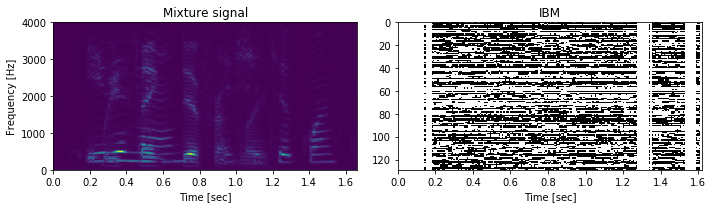
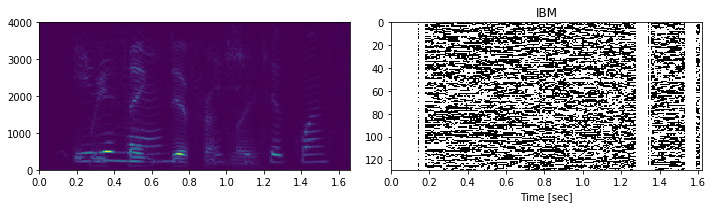
Add files via upload

diff --git a/Feedforward/train_net.py b/Feedforward/train_net.py
@@ -1,5 +1,5 @@
 '''
-Script to train the model
+Script to train 3 layer feed forward model
 '''
 
 #Sources:
@@ -7,34 +7,31 @@ Script to train the model
 
 import tensorflow as tf
 import numpy as np
+import time
+import matplotlib.pyplot as plt
+import librosa
 
 #%% Set console working directory
-    
-from os import chdir, getcwd
-wd=getcwd()
-chdir(wd)
-
-del wd
 
 #%%
 
-#Import DataGenerator2 class in Datagenerator folder
+# Import DataGenerator2 class in Datagenerator folder
 import sys
 sys.path.append('../Datagenerator')
 
 from datagenerator2 import DataGenerator2
 
 
-#list of training data files   
+# list of training data files   
 pkl_list = ['../Data/train' + str(i) + '.pkl' for i in range(1, 2)]
 
 # generator for training set and validation set
 data_generator = DataGenerator2(pkl_list)
 
-#Print message to give data about how many batches are in the data
+# Print message to give data about how many batches are in the data
 print("Training set: Data samples: %d, Total number of points: %d"%(data_generator.total_samples, data_generator.total_number_of_datapoints()))
 
-#remove variables
+# remove variables
 del pkl_list
 
 #%% Get data
@@ -42,21 +39,28 @@ del pkl_list
 # Get batch size
 batch_size = 64;
 
-#Get total number of batches
+# Get total number of batches
 total_batches = int(data_generator.total_batches(batch_size))
 
 # Get sample data
 data = data_generator.gen_batch(batch_size);
 # Reshape training data
 # concatenate training samples together to get 101900 x 129 array
-tr_features = np.concatenate([item['Sample'] for item in data], axis=0)
+tr_features = np.concatenate([item['SampleStd'] for item in data], axis=0)
 # concatenate labels together to get 101900 x 129 array
-Y_labels = (np.concatenate([np.asarray(item['Target'])[:,:,0] for item in data], axis=0)).astype(int)
+Y_labels = (np.concatenate([np.asarray(item['IBM'])[:,:,0] for item in data], axis=0)).astype(int)
 
-#Same as neff
+# Same as neff
 n_features = np.shape(tr_features)[1]
-#Same as neff
+# Same as neff
 n_classes = np.shape(Y_labels)[1]
+
+print("total_batches size: %d"%total_batches)
+print("n_features size: %d"%n_features)
+print("n_classes size: %d"%n_classes)
+print(tr_features.shape)
+print(str(Y_labels.shape))
+
 
 del data, tr_features, Y_labels
 
@@ -99,15 +103,11 @@ a = tf.nn.sigmoid((tf.matmul(y2, W0)+b0), name="activationOutputLayer")
 
 #%% Cost function
 
-#Cost function
-#cross_entropy
-#loss = tf.reduce_mean(-tf.reduce_sum(Y * tf.log(a), reduction_indices=[1]))
 #MSE
 loss = tf.losses.mean_squared_error(Y, a)
 
 #Optimizer
 train_step = tf.train.GradientDescentOptimizer(learning_rate).minimize(loss)
-#train_step = tf.train.AdadeltaOptimizer(learning_rate).minimize(loss)
 
 #%% Accuracy calculation
 
@@ -115,7 +115,6 @@ train_step = tf.train.GradientDescentOptimizer(learning_rate).minimize(loss)
 correct_prediction = tf.equal(tf.round(a), Y)
 #Accuracy determination
 accuracy = tf.reduce_mean(tf.cast(correct_prediction, tf.float32), name="Accuracy")
-
 
 #%% Run model
 
@@ -142,40 +141,42 @@ with tf.Session() as sess:
     accuracy_results = []
     loss_results = []
     
+    # Start timer
+    start = time.time()
+    
     for epoch in range(training_epochs):
-        #create array to hold intermediate results for accuracy and loss
+        # create array to hold intermediate results for accuracy and loss
         intermediate_accuracy = []
         intermediate_loss = []
          
-        #loop through each batch in the dataset
+        # loop through each batch in the dataset
         for i in range(0, total_batches):
             
             # Get data
             data = data_generator.gen_batch(batch_size);
             # Reshape training data
             # concatenate training samples together to get 101900 x 129 array
-            tr_features = np.concatenate([item['Sample'] for item in data], axis=0)
+            tr_features = np.concatenate([item['SampleStd'] for item in data], axis=0)
             # concatenate labels together to get 101900 x 129 array
-            Y_labels = (np.concatenate([np.asarray(item['Target'])[:,:,0] for item in data], axis=0)).astype(int)
+            Y_labels = (np.concatenate([np.asarray(item['IBM'])[:,:,0] for item in data], axis=0)).astype(int)
             
             _, loss1, accuracy1 = sess.run([train_step, loss, accuracy], feed_dict={X: tr_features, Y:Y_labels})
             #Add loss and accuracy to intermediate array
             intermediate_loss.append(loss1)
             intermediate_accuracy.append(accuracy1)
             
-        #Append mean of loss and accuracy over batch to accuracy_loss results
+        # Append mean of loss and accuracy over batch to accuracy_loss results
         accuracy_results.append(np.mean(intermediate_accuracy))
         loss_results.append(np.mean(intermediate_loss))
 
-        #Get prediction of validation data after each epoch
-            
-        #y_pred = sess.run(tf.argmax(a,1), feed_dict={X: ts_features})
-        #y_true = sess.run(tf.argmax(ts_labels, 1))
-        #summary, acc = sess.run([merged_summary, accuracy], feed_dict={X: ts_features, Y: ts_labels})
-        
         #writer.add_summary(summary, epoch)
         print("epoch", epoch)
     save_path = tf_saver.save(sess, model_checkpoint)
+    
+    # finish timer 
+    end = time.time()
+    
+print("Model trained. Time elapsed: %f"%(end - start))
     
 #%% remove variables
     
@@ -184,9 +185,9 @@ del foldername, model_checkpoint
 del save_path, learning_rate, n_classes, n_features, n_neurons_in_h1, n_neurons_in_h2
 del Y_labels, data, tr_features
 del total_batches, merged_summary, batch_size
+del start, end
 
 #%% Plot training accuracy and loss
-import matplotlib.pyplot as plt
 
 fig = plt.figure() 
 
@@ -222,7 +223,7 @@ del training_epochs, accuracy_results, loss_results
 import sys
 sys.path.append('../Datagenerator')
 
-from datagenerator import DataGenerator
+from datagenerator_scipy import DataGenerator
 
 wavfile1 = "../../TIMIT_WAV/Train/DR1/FCJF0/SI1027.WAV" 
 wavfile2 = "../../TIMIT_WAV/Train/DR1/MDPK0/SI552.WAV" 
@@ -231,7 +232,7 @@ sampling_rate = 8000
 frame_size = 256
 maxFFTSize = 129
 
-vad_threshold= 40
+vad_threshold= 0.001
 
 
 # create instance of class
@@ -240,44 +241,10 @@ data_generator = DataGenerator()
 #Get spectrogram of two wav files combined
 testdata = data_generator.CreateTrainingDataSpectrogram(wavfile1, wavfile2, sampling_rate, frame_size, maxFFTSize, vad_threshold)
 
-#%% As a test - convert spectrogram back into time domain
-import matplotlib.pyplot as plt
-
-#Get spectrogram from testing routine
-testspectrogram1 = np.power(10, testdata['Sample'])
-
-#Get recovered mixture from istft routine
-wav_recovered = data_generator.istft(testspectrogram1, sampling_rate, frame_size)
-   
-#Amplify wav file
-wav_recovered = wav_recovered * 5
-
-#See wav file
-fig = plt.figure() 
-
-#sub plot 1 - Original signal
-ax1 = plt.subplot(211)
-plt.plot(testdata['MixtureSignal'])
-plt.xlabel('time')
-plt.title('original signal')
-
-#sub plot 2 - Recovered signal
-ax2 = plt.subplot(212, sharex=ax1)
-plt.plot(wav_recovered)
-plt.xlabel('time')
-plt.title('recovered signal')
-
-plt.show() 
-plt.close(fig)
-
-#%% remove unused variables
-
-del testspectrogram1, wav_recovered
-
 #%% Create ibm from model
 
 #Data for model
-ts_features = testdata['Sample'][testdata['VAD']]
+ts_features = testdata['SampleStd'][testdata['VAD']]
   
 #Previously saved model 
 model_checkpoint = "./model.chkpt"
@@ -338,83 +305,93 @@ del vad
 
 #%% Show original mixture spectrogram and mask
 
+
+
 # Plot Spectrogram
 fig = plt.figure() 
 fig, (ax1, ax2) = plt.subplots(1, 2, figsize=(10,3))
 
 
-x = np.asarray(list(range(ibm.shape[0]))).astype(np.float) / ibm.shape[1]
+ax1 = plt.subplot(1,2,1)
+plt.pcolormesh(testdata['tmixed'], testdata['fmixed'], (testdata['SampleMagRaw'].transpose()))
+plt.title='Mixture signal'
+plt.xlabel='Time [sec]'
+plt.ylabel='Frequency [Hz]'
 
-ax1.pcolormesh(testdata['tmixed'], testdata['fmixed'], (np.abs(testdata['ZmixedSeries'])).transpose())
-ax1.set(title='Mixture signal', xlabel='Time [sec]', ylabel='Frequency [Hz]')
 
+
+ax2 = plt.subplot(1,2,2)
 ax2.imshow(ibm.transpose(), cmap='Greys', interpolation='none', extent=[0,(209/129),129,0], aspect="auto")
 ax2.set(title='IBM', xlabel='Time [sec]')
+
 
 plt.tight_layout()
 fig.savefig("feedforwardibm.png", bbox_inches="tight")
 plt.show()
 plt.close(fig)
 
-
 #%% apply ibm to signal and convert back into time domain
 
-#Convert spectrogram from log to normal
-split_spectrogram1 = np.power(10, ts_features)
+# Convert spectrogram from log to normal
+split_spectrogram = np.power(10, (ts_features * data_generator.std) + data_generator.mean)
 
-#Add extra points to IBM whre VAD is 0
+# Add extra points to IBM whre VAD is 0
 vad = np.where(testdata['VAD'] == False)[0]
 vad1 = np.subtract(vad, np.asarray(range(vad.shape[0])))
-split_spectrogram = np.insert(split_spectrogram1, vad1, 0, axis=0)
+split_spectrogram = np.insert(split_spectrogram, vad1, 0, axis=0)
 
-#Apply ibm to spectrogram
+# Apply ibm to spectrogram
 split_spectrogram1 = np.multiply(split_spectrogram, ibm)
 
 # create instance of class
 data_generator = DataGenerator() 
 
-#Get recovered mixture from istft routine
+# Get recovered mixture from istft routine
 wav_recovered = data_generator.istft(split_spectrogram1, sampling_rate, frame_size)
-   
-#Amplify wav file
-wav_recovered = np.float32(wav_recovered * 5)
 
-del split_spectrogram1, vad, vad1
+# Get phase from testing routine
+phase = testdata['SamplePhaseRaw']
+   
+# Get recovered mixture from istft routine with phase 
+phase = np.multiply(phase, ibm)
+split_spectrogram2 = data_generator.stft_from_mag_and_phase(split_spectrogram1, phase)
+wav_recovered_with_phase = data_generator.istft(split_spectrogram2, sampling_rate, frame_size)  
+
+del split_spectrogram, split_spectrogram1, vad, vad1, phase
 
 #%% plot signal 
 
 fig = plt.figure() 
+fig, (ax1, ax2, ax3) = plt.subplots(3, 1, figsize=(5,7))
 
 #sub plot 1 - Original signal
-ax1 = plt.subplot(211)
-plt.plot(testdata['MixtureSignal'])
-plt.xlabel('time')
-plt.title('Mixture signal')
+ax1.plot(testdata['MixtureSignal'])
+ax1.set(title='Mixture signal', xlabel='time')
 
-#sub plot 2 - Separated signal
-ax2 = plt.subplot(212, sharex=ax1)
-plt.plot(wav_recovered)
-plt.xlabel('time')
-plt.title('Separated signal')
+#sub plot 2 - Recovered signal
+ax2.plot(wav_recovered)
+ax2.set(title='Separated signal', xlabel='time')
 
-#Save figure
+#sub plot 3 - Recovered signal (real component only)
+ax3.plot(wav_recovered_with_phase)
+ax3.set(title='Separated signal with phase', xlabel='time')
+
+# Save figure
 plt.tight_layout()
-fig.savefig("feedforwardrecoveredwav.png", bbox_inches="tight")
+#fig.savefig("feedforwardrecoveredwav.png", bbox_inches="tight")
 plt.show()
-plt.close(fig)
+plt.close(fig) 
 
-#%% write final sound file to disk and play
-import winsound
-import librosa
+
+
+
+
+#%% write final sound file to disk
 
 #Save combined series to wav file
 librosa.output.write_wav('separated_signal.wav', wav_recovered, sr=sampling_rate)
 
-#play sound recovered
-winsound.PlaySound('separated_signal.wav', winsound.SND_FILENAME|winsound.SND_ASYNC)
-
-#del filepath
-
+print("file saved")
 
 
 
